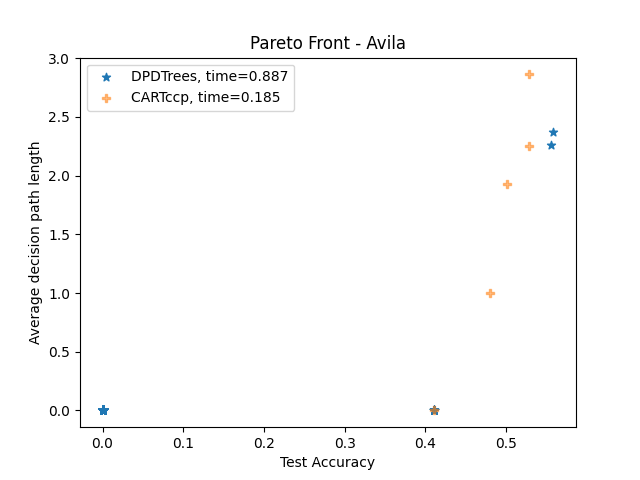
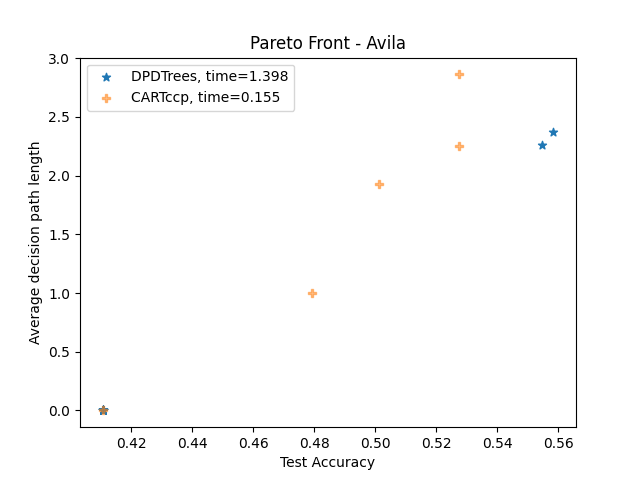
Better testing Fixes #13

diff --git a/tests/test_dpdt.py b/tests/test_dpdt.py
@@ -1,101 +1,45 @@
-import numpy as np
 from dpdt import DPDTree
 from sklearn.utils.estimator_checks import check_estimator
+import pytest
+from sklearn.datasets import make_blobs
+from sklearn.tree import DecisionTreeClassifier
+
+@pytest.mark.parametrize('max_depth', [2, 4, 6, 8, 10])
+@pytest.mark.parametrize('max_nb_trees', [1, 20, 50, 100])
+@pytest.mark.parametrize('cart_nodes_list', [(3,), (3, 5, 4, 1), (6, 6)])
+def test_check_estimator(max_depth, max_nb_trees, cart_nodes_list):
+    check_estimator(DPDTree(max_depth, max_nb_trees, cart_nodes_list))
 
 
-def test_check_estimator():
-    check_estimator(DPDTree(2))
+
+@pytest.mark.parametrize('n_samples', [10, 1000],)
+@pytest.mark.parametrize('n_features', [5, 500],)
+@pytest.mark.parametrize('max_depth', [2, 4, 6])
+@pytest.mark.parametrize('max_nb_trees', [1, 50, 100])
+@pytest.mark.parametrize('cart_nodes_list', [(3,), (3, 5, 4, 1), (6, 6)])
+def test_dpdt_learning(n_samples, n_features, max_depth, max_nb_trees, cart_nodes_list):
+    X, y = make_blobs(n_samples, centers=2, n_features=n_features,
+                  random_state=0)
+    y = y.reshape(-1, 1)
+    clf = DPDTree(max_depth, max_nb_trees, cart_nodes_list)
+    clf.fit(X, y)
+    clf.get_pareto_front(X, y)
+    clf.predict(X)
+    assert clf.score(X, y) >= .48
 
 
-def test_dpdt_different_cart_size_mdeium():
-    S, Y = np.random.random((100, 10)), np.random.randint(0, 6, 100)
-    clf = DPDTree(2, max_nb_trees=5, cart_nodes_list=[16, 8])
-    clf.fit(S, Y)
-    clf.predict(S)
-    clf.score(S, Y)
+@pytest.mark.parametrize('n_samples', [10, 1000],)
+@pytest.mark.parametrize('n_features', [5, 500],)
+@pytest.mark.parametrize('centers', [2, 4, 6],)
+@pytest.mark.parametrize('max_depth', [2, 4, 6])
+@pytest.mark.parametrize('cart_nodes_list', [(3,), (3, 5, 4, 1), (6, 6)])
+def test_better_cart(n_samples, n_features, centers, max_depth, cart_nodes_list):
+    X, y = make_blobs(n_samples, centers=centers, n_features=n_features,
+                  random_state=0)
+    y = y.reshape(-1, 1)
+    clf = DPDTree(max_depth, cart_nodes_list = cart_nodes_list)
+    clf.fit(X, y)
+    cart = DecisionTreeClassifier(max_depth=max_depth, random_state = clf.random_state)
+    cart.fit(X, y)
+    assert clf.score(X, y) >= cart.score(X,y)
 
-
-def test_dpdt_different_cart_size_big():
-    S, Y = np.random.random((100, 10)), np.random.randint(0, 6, 100)
-    clf = DPDTree(2, max_nb_trees=5, cart_nodes_list=[16, 8, 4])
-    clf.fit(S, Y)
-    clf.predict(S)
-    clf.score(S, Y)
-
-
-def test_dpdt_different_cart_size_small():
-    S, Y = np.random.random((100, 10)), np.random.randint(0, 6, 100)
-    clf = DPDTree(2, max_nb_trees=5, cart_nodes_list=[16])
-    clf.fit(S, Y)
-    clf.score(S, Y)
-
-
-def test_dpdt_different_data_small():
-    S, Y = np.random.random((100, 10)), np.random.randint(0, 6, 100)
-    clf = DPDTree(3, max_nb_trees=5, cart_nodes_list=[16, 8])
-    clf.fit(S, Y)
-    clf.score(S, Y)
-
-
-def test_dpdt_different_data_medium():
-    S, Y = np.random.random((1000, 10)), np.random.randint(0, 6, 1000)
-    clf = DPDTree(3, max_nb_trees=5, cart_nodes_list=[16, 8])
-    clf.fit(S, Y)
-    clf.score(S, Y)
-
-
-def test_dpdt_different_data_big():
-    S, Y = np.random.random((10000, 10)), np.random.randint(0, 6, 10000)
-    clf = DPDTree(3, max_nb_trees=5, cart_nodes_list=[16, 8])
-    clf.fit(S, Y)
-    clf.score(S, Y)
-
-
-def test_dpdt_different_data_high_dim():
-    S, Y = np.random.random((10, 100)), np.random.randint(0, 6, 10)
-    clf = DPDTree(3, max_nb_trees=5, cart_nodes_list=[16, 8])
-    clf.fit(S, Y)
-    clf.score(S, Y)
-
-
-def test_ultimate():
-    S, Y = np.random.random((1000, 50)), np.random.randint(0, 10, 1000)
-    clf = DPDTree(4, max_nb_trees=10, cart_nodes_list=[16, 8, 4])
-    clf.fit(S, Y)
-    clf.score(S, Y)
-
-
-def test_only_one_class():
-    S, Y = np.random.random((1000, 50)), np.random.randint(0, 1, 1000)
-    clf = DPDTree(3, max_nb_trees=5, cart_nodes_list=[16, 8])
-    clf.fit(S, Y)
-    clf.score(S, Y)
-
-
-def test_real_data():
-    S, Y = np.random.random((1000, 50)), np.random.randint(0, 10, 1000)
-    clf = DPDTree(3, max_nb_trees=5, cart_nodes_list=[16, 8])
-    clf.fit(S, Y)
-    clf.score(S, Y)
-
-
-def test_real_data_default():
-    S, Y = np.random.random((1000, 50)), np.random.randint(0, 10, 1000)
-    clf = DPDTree(3)
-    clf.fit(S, Y)
-    clf.score(S, Y)
-
-
-def test_real_data_one_tree():
-    S, Y = np.random.random((1000, 50)), np.random.randint(0, 10, 1000)
-    clf = DPDTree(3, max_nb_trees=1, cart_nodes_list=[16, 8])
-    clf.fit(S, Y)
-    clf.score(S, Y)
-
-
-def test_pareto_front():
-    S, Y = np.random.random((1000, 50)), np.random.randint(0, 10, 1000)
-    clf = DPDTree(3, max_nb_trees=4)
-    clf.fit(S, Y)
-    S, Y = np.random.random((1000, 50)), np.random.randint(0, 10, 1000)
-    clf.get_pareto_front(S, Y)

diff --git a/dpdt/dpdt_sklearn.py b/dpdt/dpdt_sklearn.py
@@ -59,16 +59,11 @@ class DPDTree(ClassifierMixin, BaseEstimator):
     --------
     >>> from dpdt import DPDTree
     >>> from sklearn import datasets
-    >>> from sklearn.tree import DecisionTreeClassifier
     >>>
     >>> X, y = datasets.load_breast_cancer(return_X_y=True)
     >>>
-    >>> clf = DPDTree(max_depth=3)
+    >>> clf = DPDTree(max_depth=3, random_state=42)
     >>> clf.fit(X, y)
-    >>> print(clf.score(X, y))
-    >>>
-    >>> clf = DecisionTreeClassifier(max_depth=3)
-    >>> clf.fit(X,y)
     >>> print(clf.score(X, y))
     """
 
@@ -76,13 +71,15 @@ class DPDTree(ClassifierMixin, BaseEstimator):
         "max_depth": [Interval(Integral, 2, None, closed="left")],
         "max_nb_trees": [Interval(Integral, 1, None, closed="left")],
         "cart_nodes_list": ["array-like"],
+        "random_state": [Interval(Integral, 0, None, closed="left")],
     }
 
-    def __init__(self, max_depth=3, max_nb_trees=1000, cart_nodes_list=(3,)):
+    def __init__(self, max_depth=3, max_nb_trees=1000, cart_nodes_list=(3,), random_state=42):
         # TODO potentially direcltly pass an instantiated CART.
-        self.max_nb_trees = max_nb_trees
         self.max_depth = max_depth
+        self.max_nb_trees = max_nb_trees
         self.cart_nodes_list = cart_nodes_list
+        self.random_state = random_state
 
     def build_mdp(self):
         """
@@ -157,13 +154,14 @@ class DPDTree(ClassifierMixin, BaseEstimator):
                 # If there is still depth budget and the current split has more than 1 class:
                 if (d + 1) < max_depth and classes.shape[0] >= 2:
                     # Get the splits from CART
+                    # Note that that 2 leaf nodes means that the split is greedy.
                     if d <= len(self.cart_nodes_list) - 1:
                         clf = DecisionTreeClassifier(
-                            max_leaf_nodes=self.cart_nodes_list[d]
+                            max_leaf_nodes=max(2, self.cart_nodes_list[d]), random_state=self.random_state
                         )
                     # If depth budget reaches limit, get the max entropy split.
                     else:
-                        clf = DecisionTreeClassifier(max_leaf_nodes=2)
+                        clf = DecisionTreeClassifier(max_leaf_nodes=2, random_state=self.random_state)
 
                     clf.fit(self.X_[node.nz], self.y_[node.nz])
 
@@ -221,14 +219,16 @@ class DPDTree(ClassifierMixin, BaseEstimator):
 
                     # Perform transitions and append states
                     for i in range(len(valid_features)):
-                        actions[i].transition(0, p_left[i], next_states_left[i])
-                        tmp.append(next_states_left[i])
+                        if lefts[:,i].astype(int).sum() > 0: 
+                            actions[i].transition(0, p_left[i], next_states_left[i])
+                            tmp.append(next_states_left[i])
 
                     for i in range(len(valid_features)):
-                        actions[i].transition(0, p_right[i], next_states_right[i])
-                        tmp.append(next_states_right[i])
+                        if rights[:,i].astype(int).sum() > 0: 
+                            actions[i].transition(0, p_right[i], next_states_right[i])
+                            tmp.append(next_states_right[i])
 
-                    [node.add_action(action) for action in actions]
+                    [node.add_action(action) for action in actions if action.rewards != []]
 
             if tmp != []:
                 deci_nodes.append(tmp)
@@ -270,11 +270,10 @@ class DPDTree(ClassifierMixin, BaseEstimator):
             self.zetas_ = np.zeros(1)
         else:
             self.zetas_ = np.linspace(-1, 0, self.max_nb_trees)
+            assert len(self.zetas_) == self.max_nb_trees
 
-        print("Building MDP")
         self.mdp_ = self.build_mdp()
         self.init_o_ = self.mdp_[0][0].obs
-        print("Backward")
         self.trees_ = backward_induction_multiple_zetas(self.mdp_, self.zetas_)
         # Return the classifier
         return self
@@ -402,8 +401,8 @@ class DPDTree(ClassifierMixin, BaseEstimator):
         decision_path_length : array-like of shape (n_samples)
             The average number of decision nodes traversal in each tree.
         """
-        scores = np.zeros(X.shape[0])
-        decision_path_length = np.zeros(X.shape[0])
+        scores = np.zeros(len(self.zetas_))
+        decision_path_length = np.zeros(len(self.zetas_))
         for z in range(len(self.zetas_)):
             scores[z], decision_path_length[z] = self.average_traj_length_in_mdp_(
                 X, y, z

diff --git a/examples/occupancy.py b/examples/occupancy.py
@@ -9,7 +9,7 @@ import urllib.request
 
 def get_occupancy_data(test=False):
     # Opening JSON file
-    with open("classification_datasets/occupancy.json") as json_file:
+    with open("occupancy.json") as json_file:
         data = json.load(json_file)
     if test:
         return np.array(data["Xtest"]), np.array(data["Ytest"])
@@ -25,7 +25,7 @@ def count_avg_test_cart(clf: DecisionTreeClassifier, X):
 print("downloading occupancy data ...")
 urllib.request.urlretrieve(
     "https://raw.githubusercontent.com/KohlerHECTOR/dpdt-py/main/classification_datasets/occupancy.json",
-    "classification_datasets/occupancy.json",
+    "occupancy.json",
 )
 
 # Train

diff --git a/examples/avila.py b/examples/avila.py
@@ -10,7 +10,7 @@ import urllib.request
 def get_avila_data(test=False):
 
     # Opening JSON file
-    with open("classification_datasets/avila.json") as json_file:
+    with open("avila.json") as json_file:
         data = json.load(json_file)
     if test:
         return np.array(data["Xtest"]), np.array(data["Ytest"])
@@ -26,7 +26,7 @@ def count_avg_test_cart(clf: DecisionTreeClassifier, X):
 print("downloading avila data ...")
 urllib.request.urlretrieve(
     "https://raw.githubusercontent.com/KohlerHECTOR/dpdt-py/main/classification_datasets/avila.json",
-    "classification_datasets/avila.json",
+    "avila.json",
 )
 
 # Train

diff --git a/setup.py b/setup.py
@@ -26,5 +26,5 @@ setup(
     long_description_content_type="text/markdown",
     author="Hector Kohler",
     author_email="hector.kohler@inria.fr",
-    install_requires=["scikit-learn"],
+    install_requires=["scikit-learn>=1.3.0"],
 )

diff --git a/README.md b/README.md
@@ -20,12 +20,11 @@ from sklearn.tree import DecisionTreeClassifier
 X, y = datasets.load_breast_cancer(return_X_y=True)
 
 # DPDT
-clf = DPDTree(max_depth=3)
-clf.fit(X, y)
-print(clf.score(X, y))
+dpdt = DPDTree(max_depth=3, random_state=42)
+dpdt.fit(X, y)
 
 #CART
-clf = DecisionTreeClassifier(max_depth=3)
-clf.fit(X,y)
-print(clf.score(X, y))
+cart = DecisionTreeClassifier(max_depth=3, random_state=42)
+cart.fit(X, y)
+assert dpdt.score(X, y) >= cart.score(X, y)
 ```

diff --git a/docs/usage.md b/docs/usage.md
@@ -16,12 +16,11 @@ from sklearn.tree import DecisionTreeClassifier
 X, y = datasets.load_breast_cancer(return_X_y=True)
 
 # DPDT
-clf = DPDTree(max_depth=3)
-clf.fit(X, y)
-print(clf.score(X, y))
+dpdt = DPDTree(max_depth=3, random_state=42)
+dpdt.fit(X, y)
 
 #CART
-clf = DecisionTreeClassifier(max_depth=3)
-clf.fit(X,y)
-print(clf.score(X, y))
+cart = DecisionTreeClassifier(max_depth=3, random_state=42)
+cart.fit(X, y)
+assert dpdt.score(X, y) >= cart.score(X, y)
 ```
